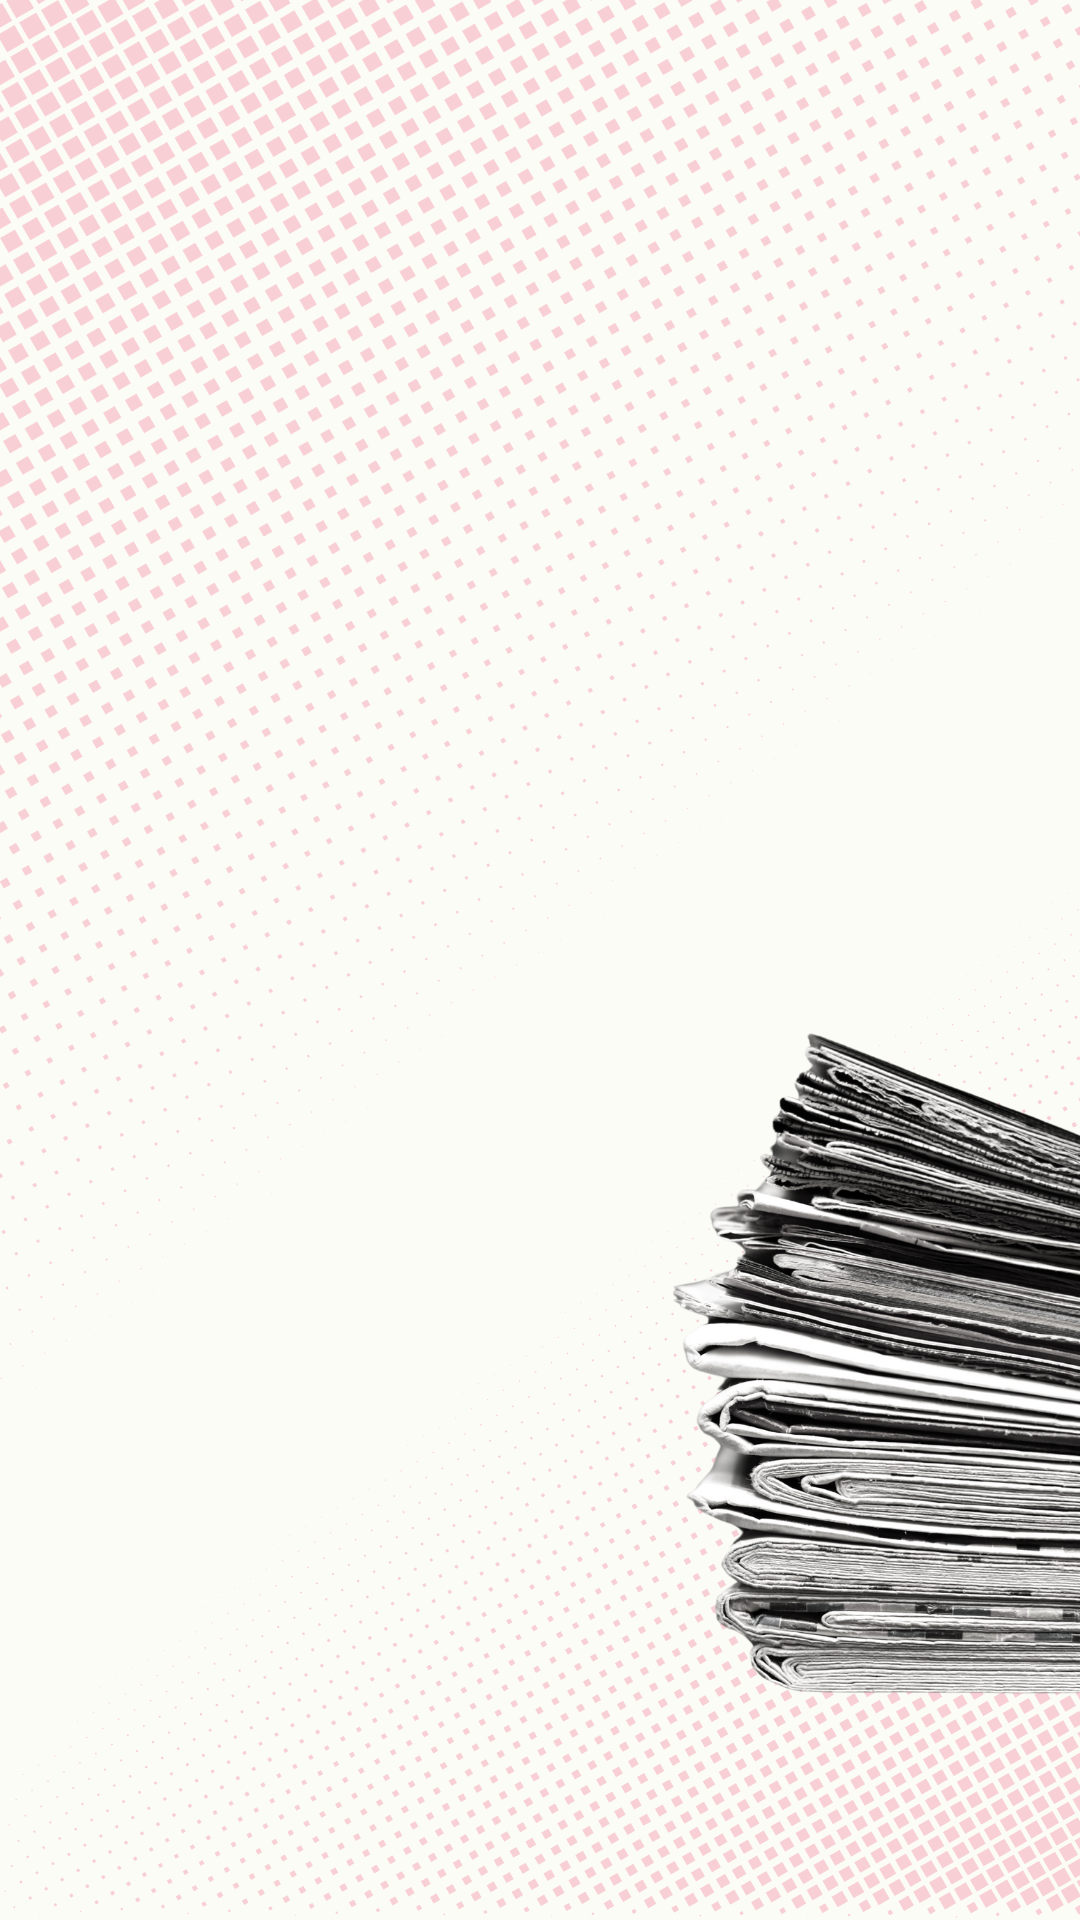
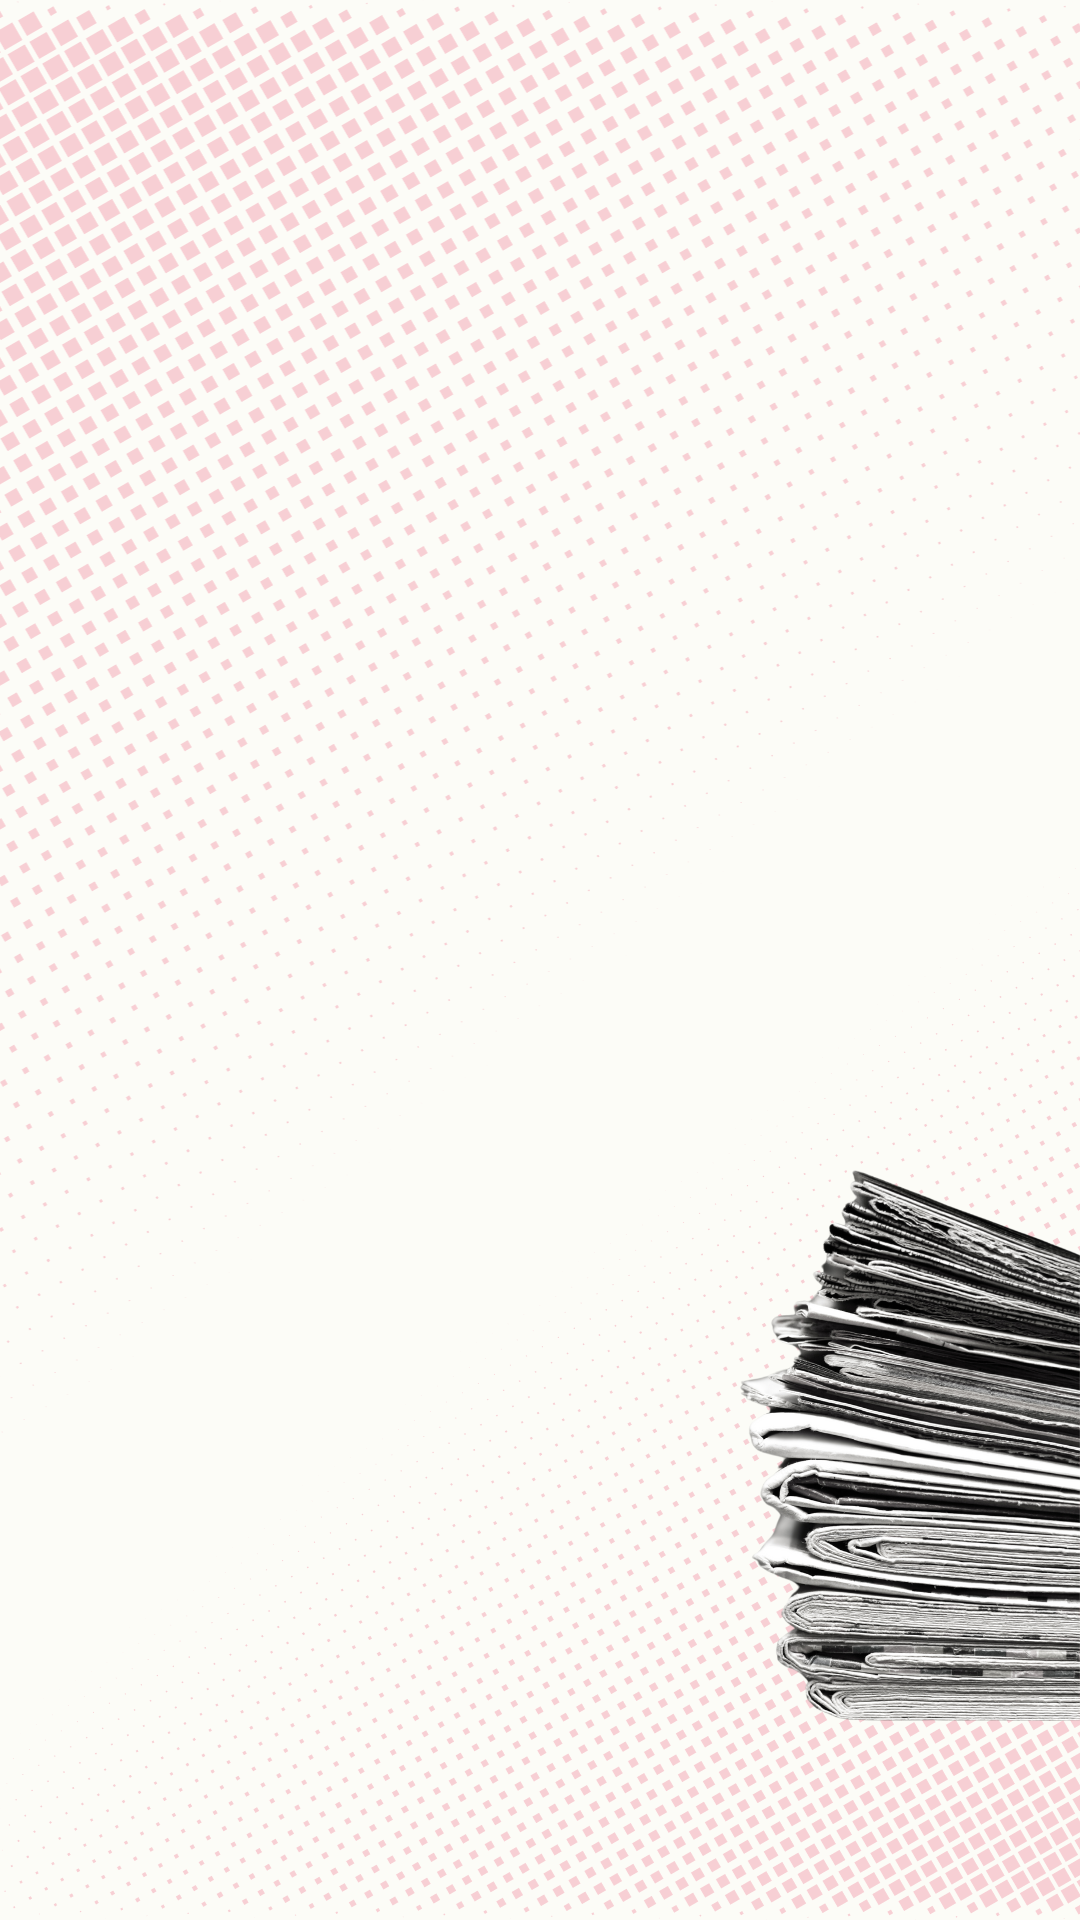
ajustes en el background main y en el botón qué hacemos

diff --git a/css/estilos.css b/css/estilos.css
@@ -294,6 +294,7 @@ main .principal .imgMainMobile img {
 
 }
 
+
 .contenedorQueHacemos .contenidoQueHacemos .contenedorTrabajos .trabajos li:last-child a {
   text-decoration: none;
   color: #FCFCF7;
@@ -303,6 +304,66 @@ main .principal .imgMainMobile img {
 .contenedorQueHacemos .contenidoQueHacemos .contenedorTrabajos .trabajos li:hover {
   transform: translateX(3px);
   transition: 0.3s;
+}
+
+.linkPortfolio {
+  --primary-color: #222223;
+  --secondary-color: #FCFCF7;
+  --hover-color: #25282A;
+  --arrow-width: 10px;
+  --arrow-stroke: 2px;
+  color: var(--secondary-color);
+  background: var(--primary-color);
+  display: flex;
+  transition: 0.2s background;
+  align-items: center;
+  gap: 0.6em;
+  padding: 5px;
+  
+}
+
+.linkPortfolio .arrow-wrapper {
+  display: flex;
+  justify-content: center;
+  align-items: center;
+}
+
+.linkPortfolio .arrow {
+  margin-top: 1px;
+  width: var(--arrow-width);
+  background: var(--primary-color);
+  height: var(--arrow-stroke);
+  position: relative;
+  transition: 0.2s;
+  
+}
+
+.linkPortfolio .arrow::before {
+  content: "";
+  box-sizing: border-box;
+  position: absolute;
+  border: solid var(--secondary-color);
+  border-width: 0 var(--arrow-stroke) var(--arrow-stroke) 0;
+  display: inline-block;
+  top: -3px;
+  right: 3px;
+  transition: 0.2s;
+  padding: 3px;
+  transform: rotate(-45deg);
+}
+
+.linkPortfolio:hover {
+  background-color: var(--hover-color);
+}
+
+.linkPortfolio:hover .arrow {
+  background: var(--secondary-color);
+  
+}
+
+.linkPortfolio:hover .arrow:before {
+  right: 0;
+  font-weight: 900;
 }
 
 /* CLIENTES */
@@ -392,7 +453,7 @@ main .principal .imgMainMobile img {
   border-radius: 5px;
   padding: 10px;
   background: #f9f6ee;
-  box-shadow: 6px 6px 0px 0px rgba(37, 40, 42, 1);
+  box-shadow: rgba(0, 0, 0, 0.15) 1.95px 1.95px 2.6px;
   display: flex;
   flex-direction: column;
   justify-content: center;
@@ -451,7 +512,7 @@ main .principal .imgMainMobile img {
   border-radius: 5px;
   padding: 10px;
   background: #f9f6ee;
-  box-shadow: 6px 6px 0px 0px rgba(37, 40, 42, 1);
+  box-shadow: rgba(0, 0, 0, 0.15) 1.95px 1.95px 2.6px;
   display: flex;
   flex-direction: column;
   justify-content: center;
@@ -964,7 +1025,7 @@ main .principal .imgMainMobile img {
 
   main .principal .principal1 {
     align-items: flex-start;
-    width: 80%;
+    width: 60%;
     padding-left: 20px;
     margin-left: 0;
     margin-right: 0;
@@ -972,7 +1033,7 @@ main .principal .imgMainMobile img {
 
   main .principal .principal1 .textPrincipal {
     text-align: left;
-    font-size: 50px;
+    font-size: 55px;
   }
 
   main .principal .principal1 .logotipoH1 {

diff --git a/css/stylePorfolio.css b/css/stylePorfolio.css
@@ -53,7 +53,8 @@
     margin-bottom: 20px;
     border-radius: 5px;
     background-color: #f9f6ee;
-    box-shadow: 6px 6px 0px 0px rgba(37, 40, 42, .3);
+    box-shadow: rgba(0, 0, 0, 0.24) 0px 3px 8px;
+    /* box-shadow: 6px 6px 0px 0px rgba(37, 40, 42, .3); */
 
     display: flex;
     flex-direction: column;
@@ -63,7 +64,7 @@
 }
 
 .contenedorPortfolio .contenidoPortfolio .tarjeta:hover {
-    box-shadow: 6px 6px 0px 0px rgba(37, 40, 42, 1);
+    box-shadow: rgba(0, 0, 0, 0.8) 0px 3px 8px;
     transition: .3s;
 }
 
@@ -121,22 +122,22 @@
 
 .contenedorPortfolio .contenidoPortfolio .tarjeta .tituloTarjeta {
     text-align: center;
-    padding: 15px;
-}
+    }
 
 .contenedorPortfolio .contenidoPortfolio .tarjeta .tituloTarjeta h5{
-    font-size: 22px;
+    font-size: 30px;
     font-family: 'Montserrat', sans-serif;
     font-weight: 700;
 }
 
+.contenedorPortfolio .contenidoPortfolio .tarjeta .imgTarjeta {
+    padding: 20px;
+}
 .contenedorPortfolio .contenidoPortfolio .tarjeta .imgTarjeta img{
     border-radius: 5px;
 }
 /* MODAL */
-.modal-dialog {
-    max-width: 800px;
-}
+
 .modal-title a {
     font-weight: 600;
     text-decoration: none;
@@ -147,16 +148,6 @@
     text-decoration: none;
     transition: 0.5s;
     color: #E20034;
-}
-
-.carousel-control-prev-icon:hover {
-    transform: rotate(-360deg);
-    transition: 0.8s;
-}
-
-.carousel-control-next-icon:hover {
-    transform: rotate(360deg);
-    transition: 0.8s;
 }
 
 .carousel-control-prev i {
@@ -247,11 +238,11 @@
     }
 
     .contenedorPortfolio .contenidoPortfolio .tarjeta .tituloTarjeta h5{
-        font-size: 18px;
+        font-size: 22px;
     }
 
     .contenedorPortfolio .contenidoPortfolio .ratzkierArquitectura .tituloTarjeta h5, .contenedorPortfolio .contenidoPortfolio .epicaServiciosTuristicos .tituloTarjeta h5{
-        font-size: 16px;
+        font-size: 18px;
     }
 
 }
@@ -261,11 +252,11 @@
 @media (min-width: 1200px) {
     /* Tus estilos para dispositivos extra large y superiores van aquí */
 
-    .contenedorPortfolio .contenidoPortfolio .tarjeta .imgTarjeta {
+    /* .contenedorPortfolio .contenidoPortfolio .tarjeta .imgTarjeta {
         padding-bottom: 20px;
-        }
+        } */
     .contenedorPortfolio .contenidoPortfolio .tarjeta .cintilloTarjeta h6 {
-        font-size: 14px;
+        font-size: 12px;
     }
 
 }

diff --git a/index.html b/index.html
@@ -124,7 +124,8 @@
                     <li>Producciones periodísticas</li>
                     <li>Revisión y corrección de textos de ficción</li>
                     <li>Traducciones</li>
-                    <li><a href="./paginas/portfolio.html">Visitá nuetro portfolio</a></li>
+                    <li><a class="linkPortfolio" href="./paginas/portfolio.html" target="_blank">Visitá nuetro portfolio <div class="arrow-wrapper"><div class="arrow"></div></div></a></li>
+                  
                 </ul>
             </div>
         </article>

diff --git a/paginas/portfolio.html b/paginas/portfolio.html
@@ -227,7 +227,7 @@
         <!-- IAF 2022 -->
         <div class="modal fade" id="iaf2022" tabindex="-1" role="dialog" aria-labelledby="exampleModalCenterTitle"
             aria-hidden="true">
-            <div class="modal-dialog modal-dialog-centered" role="document">
+            <div class="modal-dialog .modal-xl modal-dialog-centered" role="document">
                 <div class="modal-content">
                     <div class="modal-header">
                         <h5 class="modal-title text-center" id="exampleModalLongTitle"><a
